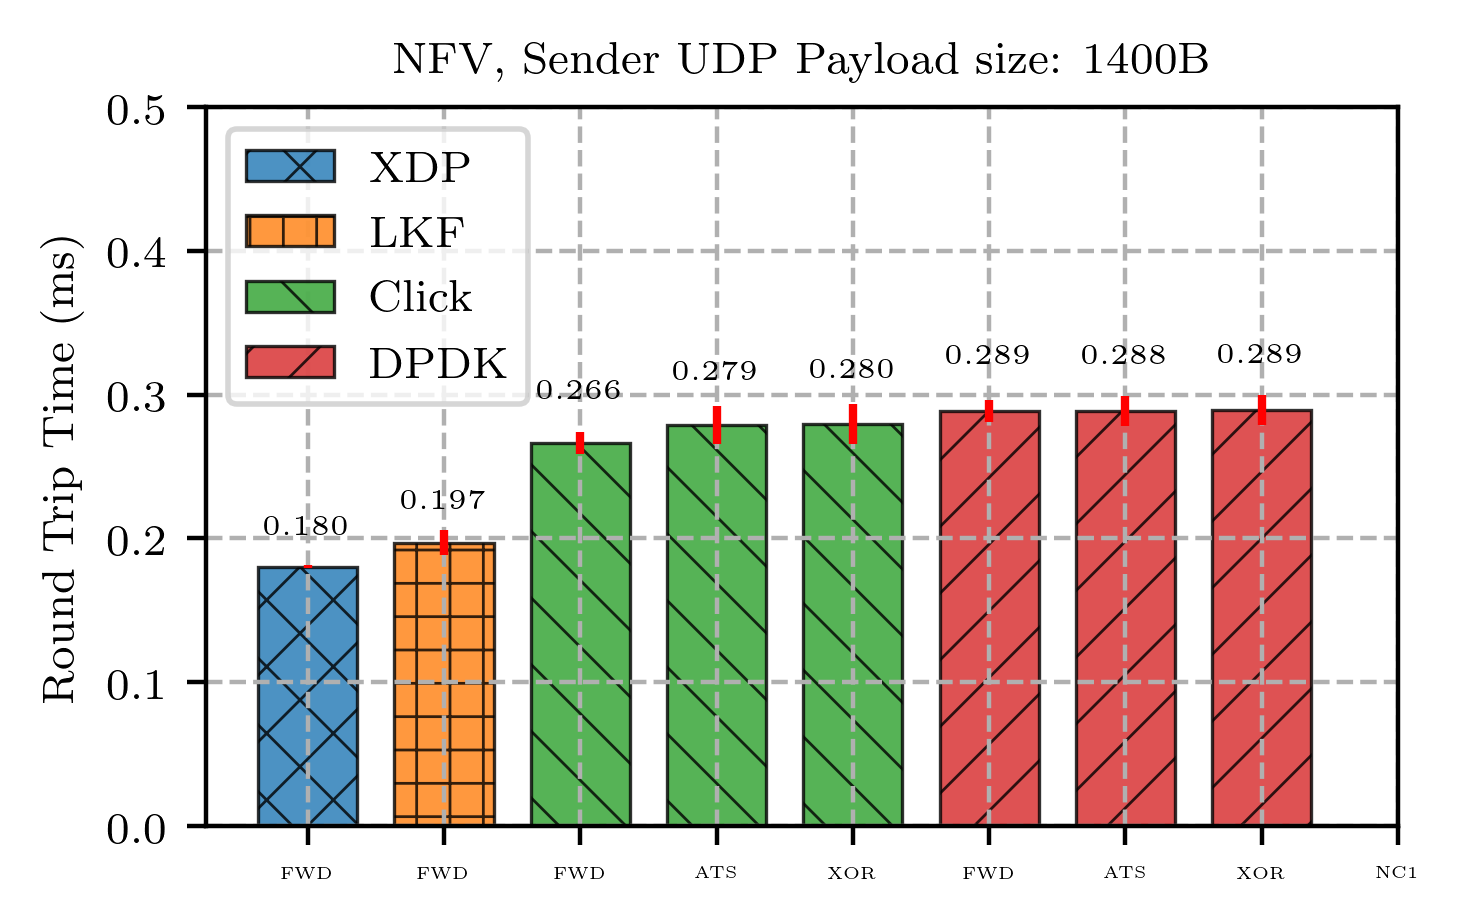
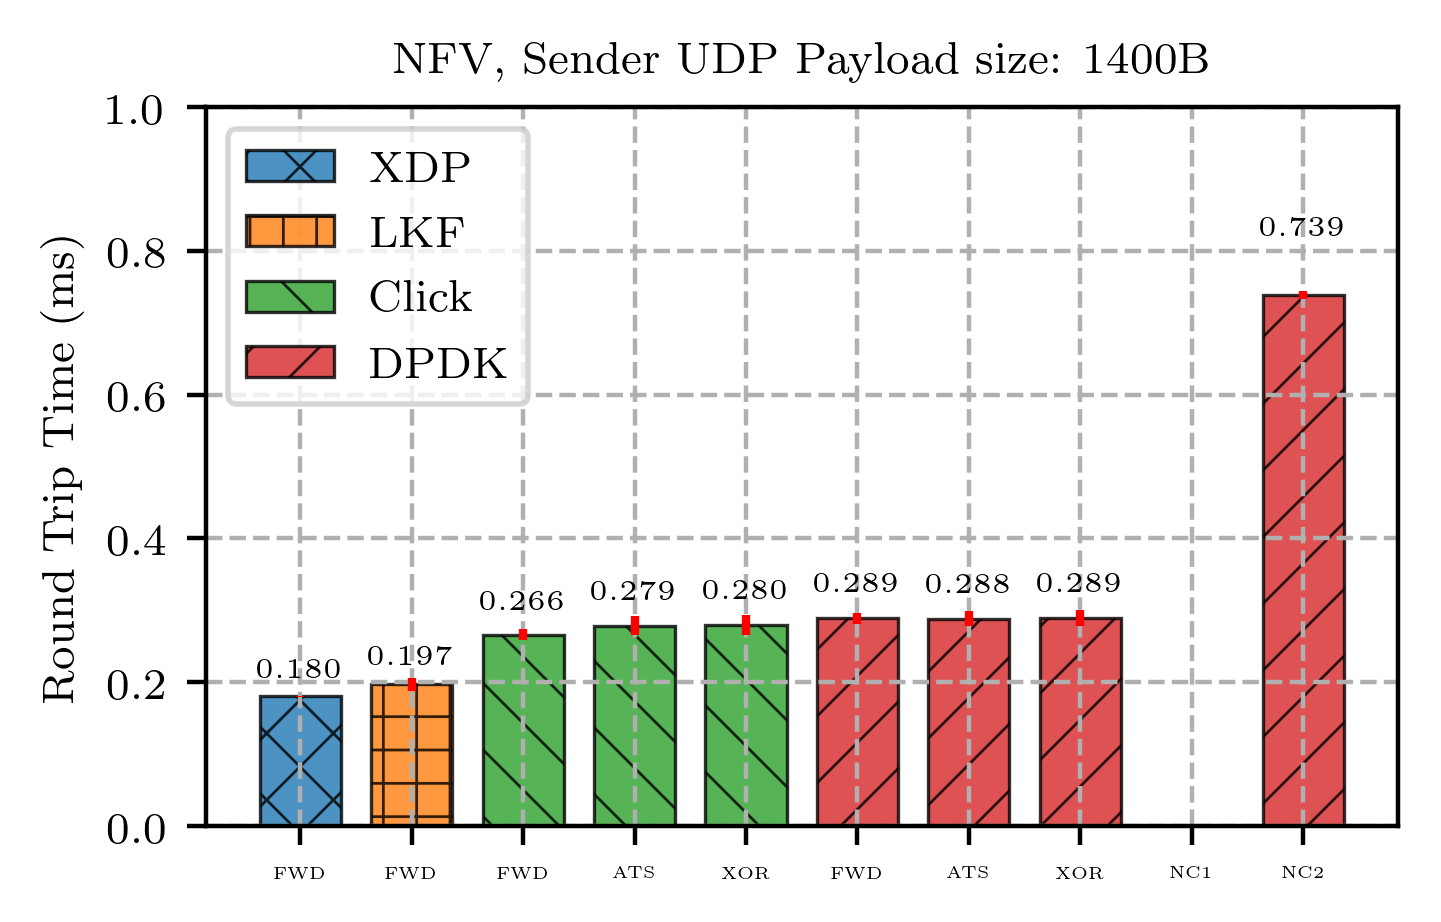
<feat>: Update README and add new eva results

diff --git a/dpdk/app/udp_nc/main.c b/dpdk/app/udp_nc/main.c
@@ -2,24 +2,21 @@
  * =====================================================================================
  *
  *       Filename:  main.c
- *    Description:  Network coding UDP payload with NCKernel
+ *    Description:  Network coding UDP flows with NCKernel
  *
- *                  * Coder type:
- *                      - Encoder
- *                      - Decoder
- *                      - Recoder
+ *                  - With default mode, only UDP payload is coded.
  *
- *           Note:
+ *      Dev-Note:
  *                  - Currently, no call-backs are used. The ethernet frames are
- *                  handled one by one:
+ *                    handled one by one:
  *                      Recv_RX_Queue -> Filter -> Code -> Rewrite_MAC ->
  *                      Put_TX_Queue -> Drain_TX_Queue
  *
  *                  - For all coder types, a coding buffer(static uint8_t array)
- *                  is used to exchange data between mbufs and coder's own
- *                  buffer. The input mbuf is always freed after the coding
- *                  operaton of all coder types. Addtional mbufs are cloned to
- *                  encapsulate output(s) of the coder.
+ *                    is used to exchange data between mbufs and coder's own
+ *                    buffer. The input mbuf is always freed after the coding
+ *                    operaton of all coder types. Addtional mbufs are cloned to
+ *                    encapsulate output(s) of the coder.
  *
  *        Version:  0.3
  *          Email:  xianglinks@gmail.com
@@ -275,8 +272,8 @@ __attribute__((unused)) static bool is_ipv4_pkt(struct rte_mbuf* m)
         ethh = rte_pktmbuf_mtod(m, struct ether_hdr*);
         if (ethh->ether_type == rte_cpu_to_be_16(ETHER_TYPE_IPv4)) {
                 return true;
-        } else
-                return false;
+        }
+        return false;
 }
 
 __attribute__((unused)) static bool is_udp_dgram(struct rte_mbuf* m)
@@ -285,8 +282,9 @@ __attribute__((unused)) static bool is_udp_dgram(struct rte_mbuf* m)
         iph = rte_pktmbuf_mtod_offset(m, struct ipv4_hdr*, ETHER_HDR_LEN);
         if (iph->next_proto_id == IPPROTO_UDP) {
                 return true;
-        } else
-                return false;
+        }
+
+        return false;
 }
 
 static void recalc_cksum(struct ipv4_hdr* iph, struct udp_hdr* udph)
@@ -523,14 +521,16 @@ UDP_NC_FUNC get_nc_func(int coder_type)
 {
         if (coder_type == 0) {
                 return udp_encode;
-        } else if (coder_type == 1) {
-                return udp_decode;
-        } else if (coder_type == -1) {
-                return udp_encode;
-        } else {
-                RTE_LOG(INFO, USER1, "[WARN] Just forwarding\n");
-                return NULL;
         }
+        if (coder_type == 1) {
+                return udp_decode;
+        }
+        if (coder_type == -1) {
+                return udp_encode;
+        }
+
+        RTE_LOG(INFO, USER1, "[WARN] Just forwarding\n");
+        return NULL;
 }
 
 inline static void l2fwd_mac_updating(struct rte_mbuf* m)
@@ -550,8 +550,9 @@ static void l2_forward_rxqueue(struct rte_mbuf* m, unsigned portid)
 
         dst_port = l2fwd_dst_ports[portid];
 
-        if (mac_updating)
+        if (mac_updating) {
                 l2fwd_mac_updating(m);
+        }
 
         buffer = tx_buffer[dst_port];
 
@@ -686,13 +687,11 @@ static void l2fwd_main_loop(void)
                                                             filter_ret);
                                                         rte_pktmbuf_free(m);
                                                         continue;
-                                                } else {
-                                                        nb_udp_dgrams += 1;
-                                                        rte_prefetch0(
-                                                            rte_pktmbuf_mtod(
-                                                                m, void*));
-                                                        udp_nc_opt(m, portid);
                                                 }
+                                                nb_udp_dgrams += 1;
+                                                rte_prefetch0(
+                                                    rte_pktmbuf_mtod(m, void*));
+                                                udp_nc_opt(m, portid);
                                         }
                                         /* Evaluate processing delay of burst
                                          * packets */
@@ -1005,6 +1004,10 @@ static void signal_handler(int signum)
         }
 }
 
+/* TODO:  <26-07-18, zuo>
+ * - Init mbufs properly to support NC directly on mbufs
+ * - Check configs for vhost-user interfaces
+ * */
 int main(int argc, char** argv)
 {
         struct lcore_queue_conf* qconf;
@@ -1078,8 +1081,8 @@ int main(int argc, char** argv)
             "Protocol: %s, Symbol size: %s, Symbols: %s, Redundancy:%s\n",
             PROTOCOL, SYMBOL_SIZE, SYMBOLS, REDUNDANCY);
         struct nck_option_value options[] = { { "protocol", PROTOCOL },
-                { "symbol_size", "258" }, { "symbols", "2" },
-                { "redundancy", "1" }, { NULL, NULL } };
+                { "symbol_size", SYMBOL_SIZE }, { "symbols", SYMBOLS },
+                { "redundancy", REDUNDANCY }, { NULL, NULL } };
 
         switch (coder_type) {
         case 0:

diff --git a/evaluation/round_trip_time/plot.py b/evaluation/round_trip_time/plot.py
@@ -201,7 +201,7 @@ def plot_ipd(payload_size='1400B', profile=''):
     rtt_ax.set_xticks([0 + x * (bar_width + gap)
                        for x in range(len(csv_files))])
     # rtt_ax.set_xticks([0, 0+bar_width+gap])
-    rtt_ax.set_ylim(0, 0.5)
+    rtt_ax.set_ylim(0, 1.0)
     rtt_ax.set_xticklabels(xtick_labels, fontsize=3)
     rtt_ax.grid(linestyle='--')
 

diff --git a/dpdk/app/udp_nc/ncmbuf.h b/dpdk/app/udp_nc/ncmbuf.h
@@ -1,0 +1,10 @@
+/*
+ * ncmbuf.h
+ *
+ * Description: Network code DPDK mbuf with NCKernel
+ */
+
+#ifndef NCMBUF_H
+#define NCMBUF_H
+
+#endif /* !NCMBUF_H */

diff --git a/dpdk/app/udp_nc/ncmbuf.c b/dpdk/app/udp_nc/ncmbuf.c
@@ -1,0 +1,7 @@
+/*
+ * ncmbuf.c
+ *
+ * Description: Network code DPDK mbuf with NCKernel
+ */
+
+#include "ncmbuf.h"

diff --git a/README.md b/README.md
@@ -1,15 +1,25 @@
 # Build VNF #
 
+## Motivation ##
+
 Test and evaluate different packet IO and processing tools for implementing Virtualized Network Function (VNFs) on
 virtual machines, Unikernels or containers. The main focus of performance here is the **low latency** (End-to-End
 service delay). Pros and cons of each tool should be studied and latter utilized for building VNF with different
 requirements.
-For example, firewalls or load balancers should be built using tools that provide high IO speeds but limited computing
-power.
-For compute-intensive network functions, such as data encryption, network coding and compressed sensing. The processing
-ability and delay performance of the tool should also be considered.
 
-Such VNFs should be latter integrated into the [SFC-Ostack](https://github.com/stevelorenz/sfc-ostack) framework.
+For example, firewalls or load balancers can be built using tools that provide high IO speeds but limited computing
+power.  For compute-intensive network functions, such as data encryption, network coding or compressed sensing. The
+processing ability and delay performance of the tool should also be considered.
+
+Such VNFs can be latter e.g. integrated into NFV platforms or frameworks.
+
+## Catalog ##
+
+Since this repo is research oriented, many PoCs or prototypes are also included. These sub-items are classified
+according to the technology used. For instance, the [io\_visor](./io\_visor) directory contains prototypes and helper
+scripts to develop VNFs with tools provided by IO Visor project. These codes are not guaranteed to be stable and also
+upgraded with latest features. Relative mature and stable VNFs are put into the [vnf\_release](./vnf\_release/) directory
+with source code and also usage guide. These sub-items will be maintained and improved with latest features.
 
 ## Packet IO Frameworks ##
 
@@ -23,8 +33,6 @@ Such VNFs should be latter integrated into the [SFC-Ostack](https://github.com/s
 ## Packet Processing Frameworks ##
 
 1. Network Coding Kernel Library (NCKernel): Used for network coded communications.
-
-## TODO: Catalog ##
 
 ## Brief Comparison ##
 
